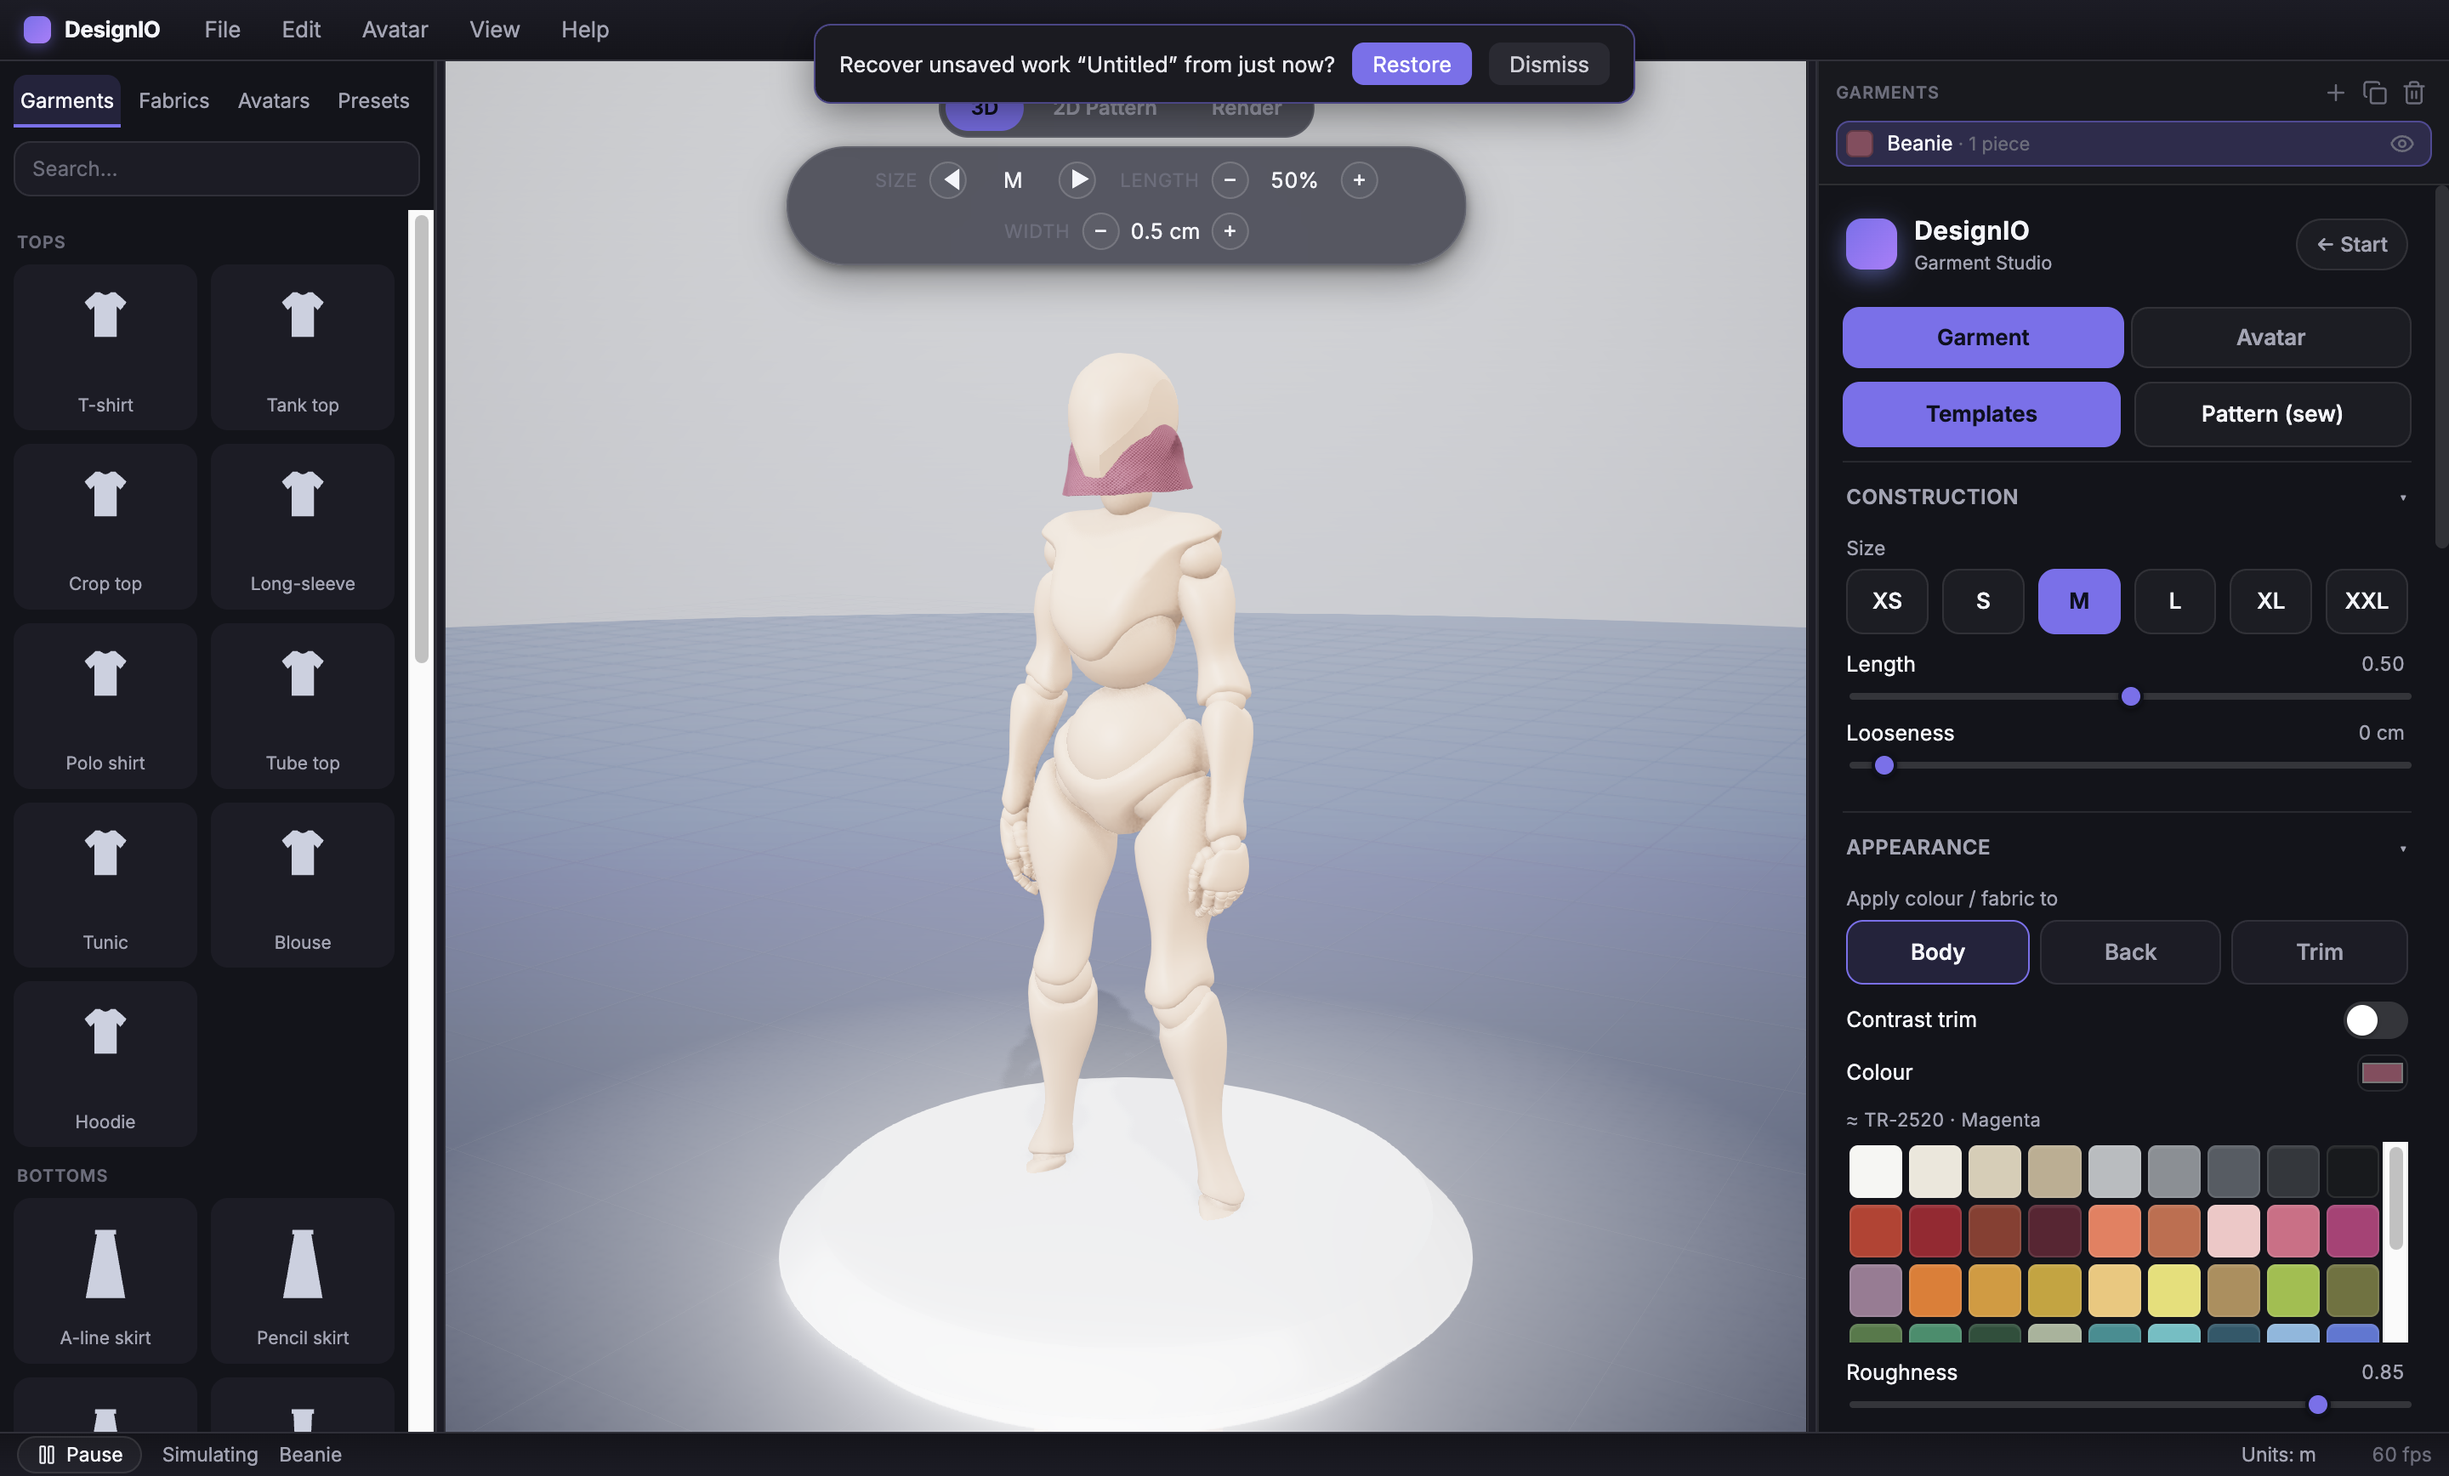
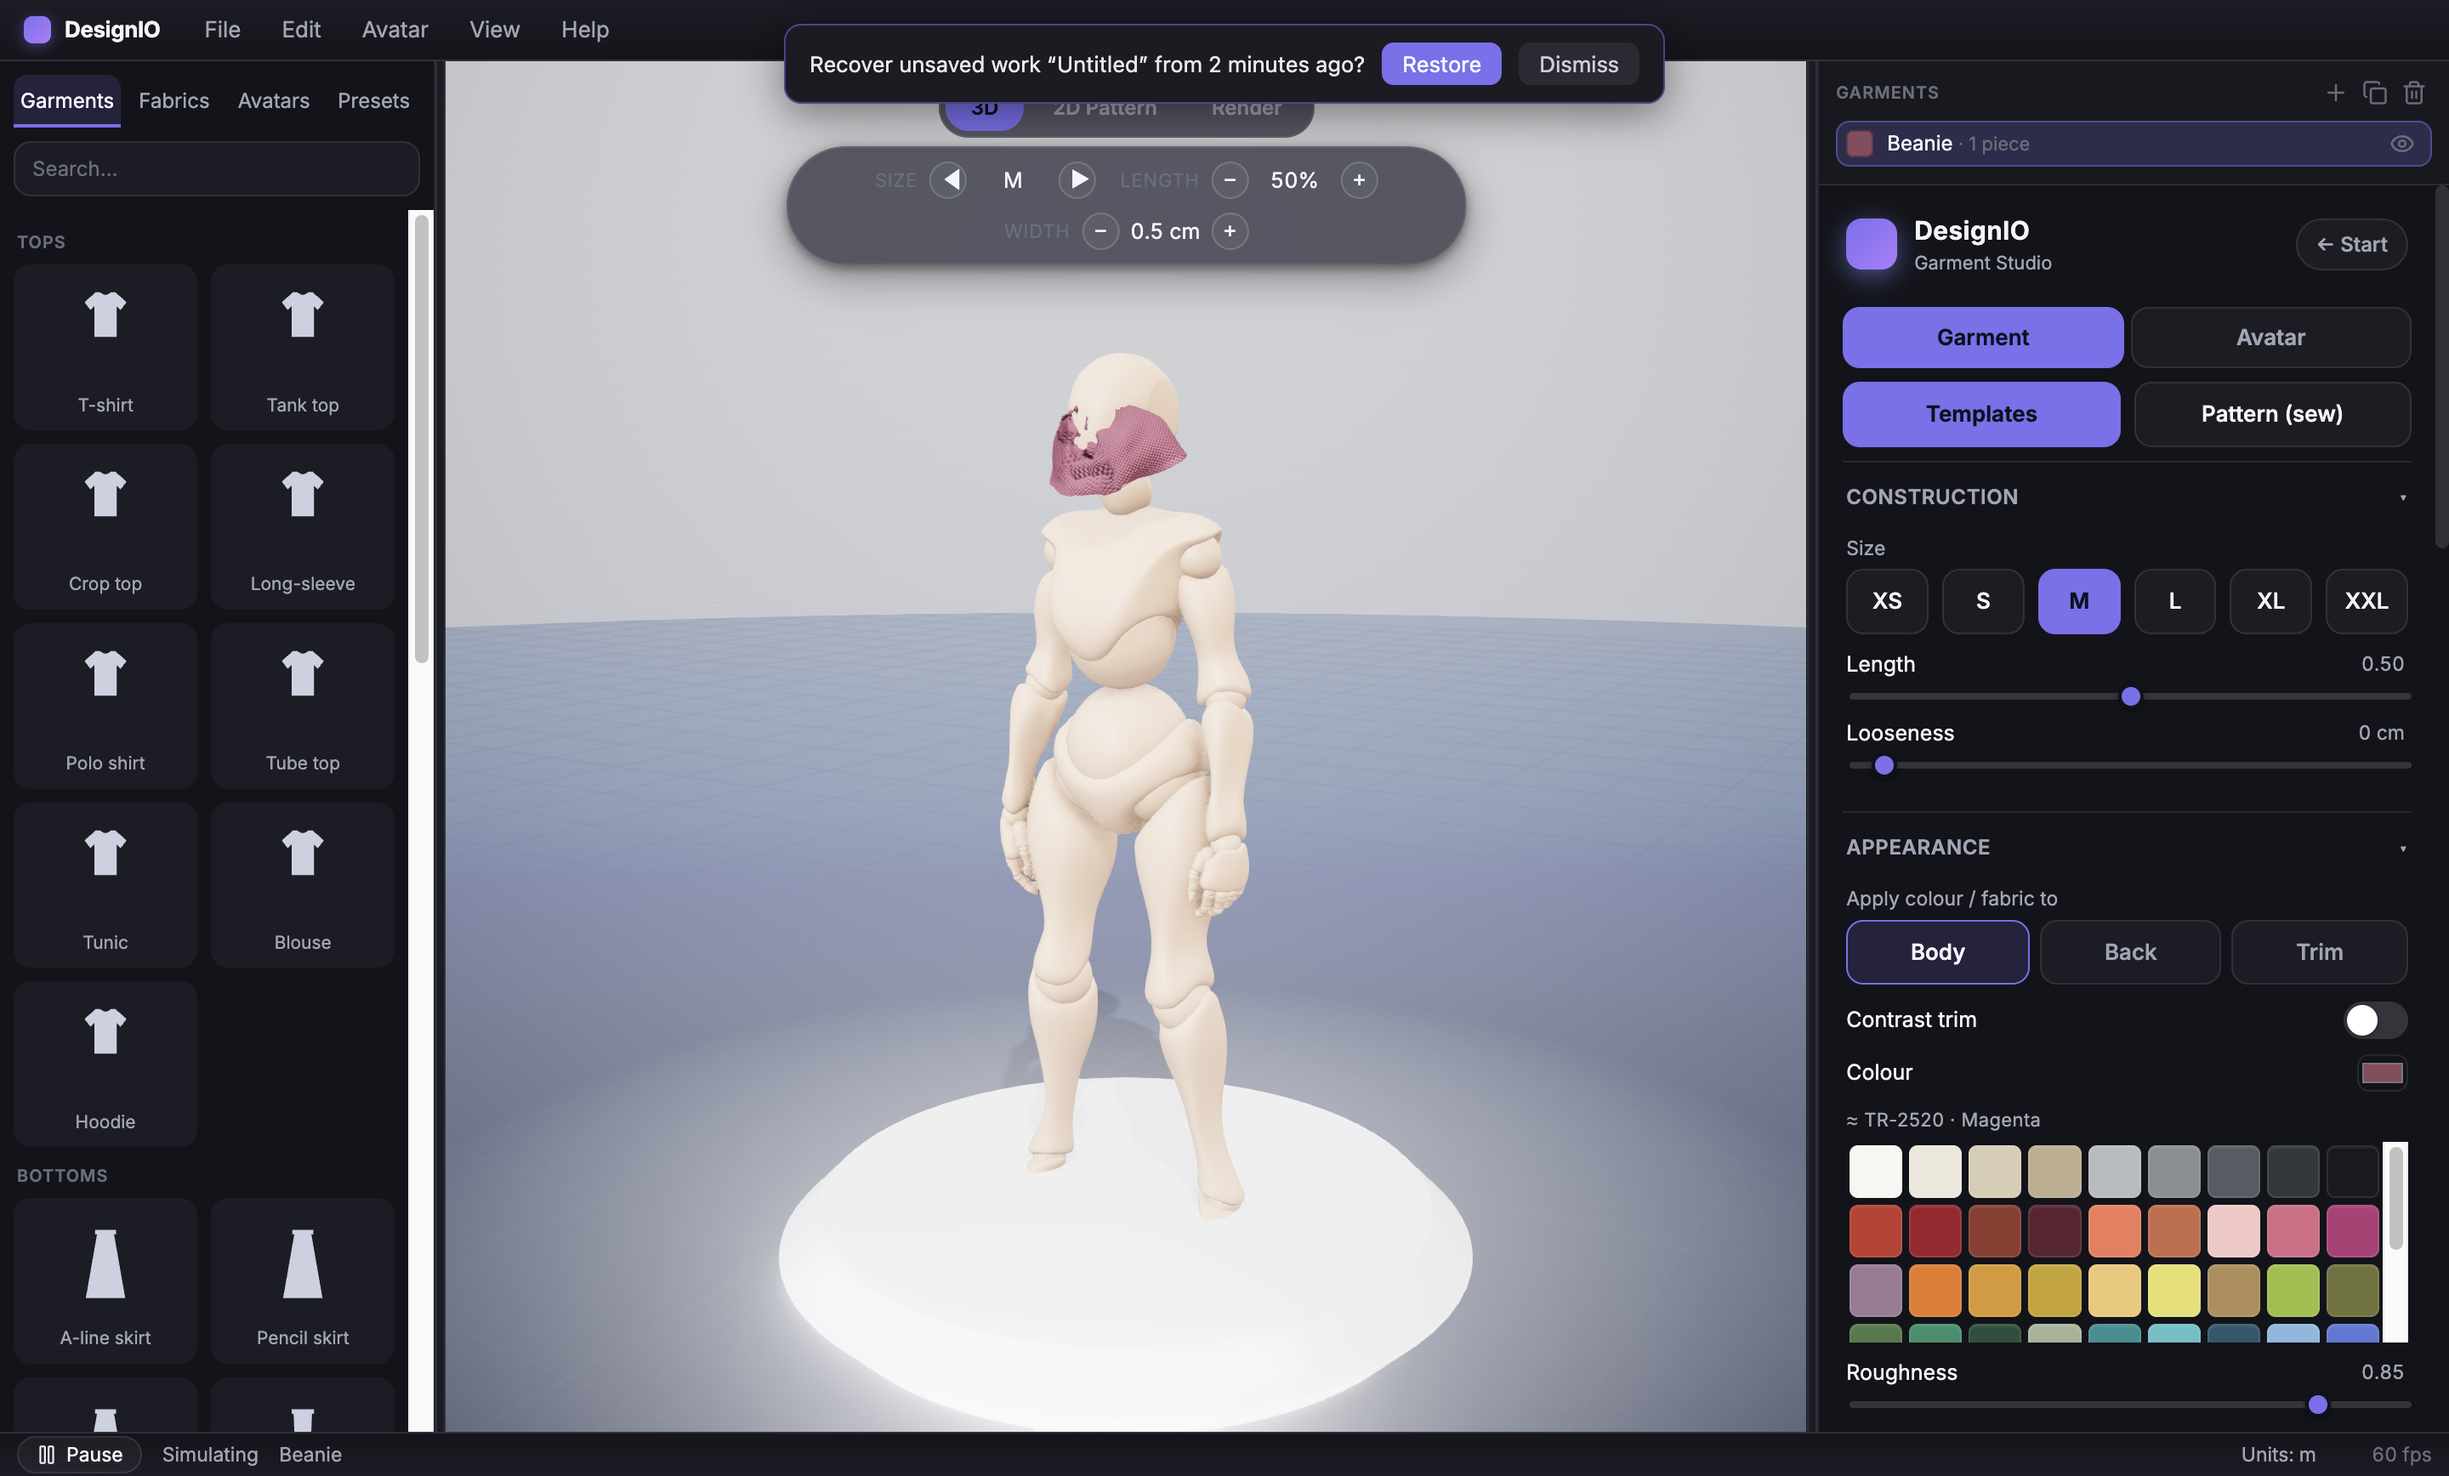
fix: cap the cloth beanie's crown (was an open flared cone, bare head)
A grounded visual audit of all 31 garments found 26 render correctly; the
solver/collision/anchor math is sound (the "aero drag inverted" and "jumpsuit
hemDrop" claims were verified false/intentional). The real defect was the
cloth-sim beanie: its headTube built an OPEN flared cone (topScale 0.38 → a hole
at the crown, botScale 1.3 → a wide flared band), so the head dome poked through
the top and the fabric sat as a low band with the crown bare.

- registry.ts: re-proportion the beanie headTube to a gathered-closed crown that
  domes over the head — topScale 0.13 (caps the dome), botScale 1.28, drop
  0.26–0.32. It now caps the crown, covers down the head, and stays put when the
  head turns/nods (verified via idle-anim capture, across rib/fleece/denim).
- garment.test.ts: guard that the beanie's crown radius is well below the bottom
  (ratio ~0.1) so a future regression that re-opens the cone (old ratio ~0.29) is
  caught. The existing stability test already drapes the beanie bounded/finite.
- docs/beanie-cloth.png: regenerated with the fix.

The snood + scarf were confirmed ALREADY correct (they only looked "invisible" in
an earlier audit because oat-beige cable-knit camouflaged against the skin-toned
body) — no change needed.

typecheck + 418 tests + build green.

Changed region(s): [[0.3125, 0.0311, 0.6875, 0.0933], [0.4062, 0.28, 0.5, 0.3422]]

diff --git a/tests/garment.test.ts b/tests/garment.test.ts
@@ -208,6 +208,16 @@ describe('headTube (headwear / neckwear)', () => {
     expect(pieces.map((pc) => pc.name)).toEqual(['Head'])
     expect(pieceAnchor('Head', 0, 1.7, mann.measurements.chestY, mann.measurements.hipY)).toBe('head')
   })
+
+  it('the beanie caps the crown — a well-gathered top so the head dome is covered (not an open cone)', () => {
+    const mann = buildMannequin()
+    const def = getGarment('beanie')
+    const spec = garmentTubeSpecs(def, { ...DEFAULT_PARAMS, ...def.defaults }, mann.measurements)[0]
+    // Gathered small at the crown + widening over the head. A ratio near ~0.1 caps the dome;
+    // the old open cone (topScale 0.38 → ratio ~0.29) left the crown bare, so guard below it.
+    expect(spec.radiusTop).toBeLessThan(spec.radiusBottom * 0.22)
+    expect(spec.topY).toBeGreaterThan(mann.measurements.neckY + mann.measurements.headR) // up at the crown, not the neck
+  })
 })
 
 describe('scarf (flat draped panel)', () => {

diff --git a/src/renderer/garments/registry.ts b/src/renderer/garments/registry.ts
@@ -363,7 +363,7 @@ export const GARMENTS: GarmentDefinition[] = [
     category: 'outerwear',
     icon: 'top',
     // a knit cap over the crown, gathered at the top — pins to the head, so it turns/nods with it
-    pieces: [{ kind: 'headTube', anchor: 'crown', dropHi: 0.22, dropLo: 0.3, topScale: 0.38, botScale: 1.3 }],
+    pieces: [{ kind: 'headTube', anchor: 'crown', dropHi: 0.26, dropLo: 0.32, topScale: 0.13, botScale: 1.28 }],
     supports: { length: true, ease: true },
     defaults: { length: 0.5, ease: 0.005, flare: 0 },
     defaultFabric: 'rib-knit'

diff --git a/KANBAN.md b/KANBAN.md
@@ -198,6 +198,7 @@ Legend: ✅ done · 🔄 in progress · 📋 backlog
 - [x] **Expose `headR`/`neckR` in `Measurements`** — added to the interface + `measurementsFor`/`applyBody` (scale with build), so `headTubeToSpec` + headwear fit read them — PR #184
 - [x] **Pin headwear to the head anchor** — `bindPinsToBody` routes a crown headwear piece (a beanie/hat) to the **head** anchor via a pure `pieceAnchor(name,…)` (head → head · sleeve → arm · else → nearer of torso/hip), so it turns/nods with the head; shipped a cloth-sim **beanie** catalog garment (crown `headTube`) that rides the head; `pieceAnchor` unit-tested + a headless drape-stability check — PR #185
 - [ ] **Snug-knit collision tuning** — a tighter `bodySkin`/offset for knits so a beanie hugs the crown without hovering
+- [x] **Fix the cloth beanie crown** — the beanie's `headTube` was an **open** flared cone (`topScale 0.38` → a hole at the crown, `botScale 1.3` → flared band) so the head dome poked through the top and the fabric sat as a low band with the crown bare. Re-proportioned to a gathered-closed crown that domes over the head (`topScale 0.13`, `botScale 1.28`, drop `0.26–0.32`): it now caps the crown, covers down the head, and stays put when the head turns/nods. A grounded visual audit confirmed the **snood + scarf were already correct** (they only looked "invisible" in oat-beige-on-beige). Guard test added (crown radius ≪ bottom, catches a re-opened cone); README photo refreshed — PR #202-ish
 - [x] **Cloth-sim draping scarf** — a flat **open** knit panel (new `scarfPanel` piece → `buildScarf`/`fillScarf`, solved with `wrapX: false`) wrapped once around the neck: the collar is pinned as a stable band that follows the body, the two front tails hang + drape under gravity clear of the chest; a robust width frame (vertical on the collar → horizontal on the tails) so it can't collapse; `wrapX` threaded through `SimPiece`/`Piece`/solver; `fillScarf`/`buildScarf` + a headless drape-stability check unit-tested — PR #186
 - [ ] **Cloth-sim ski mask (balaclava)** — a conforming knit shell with a real **face-opening cut-out** (dead particles for eyes/mouth, reusing the cut-out mechanism)
 
